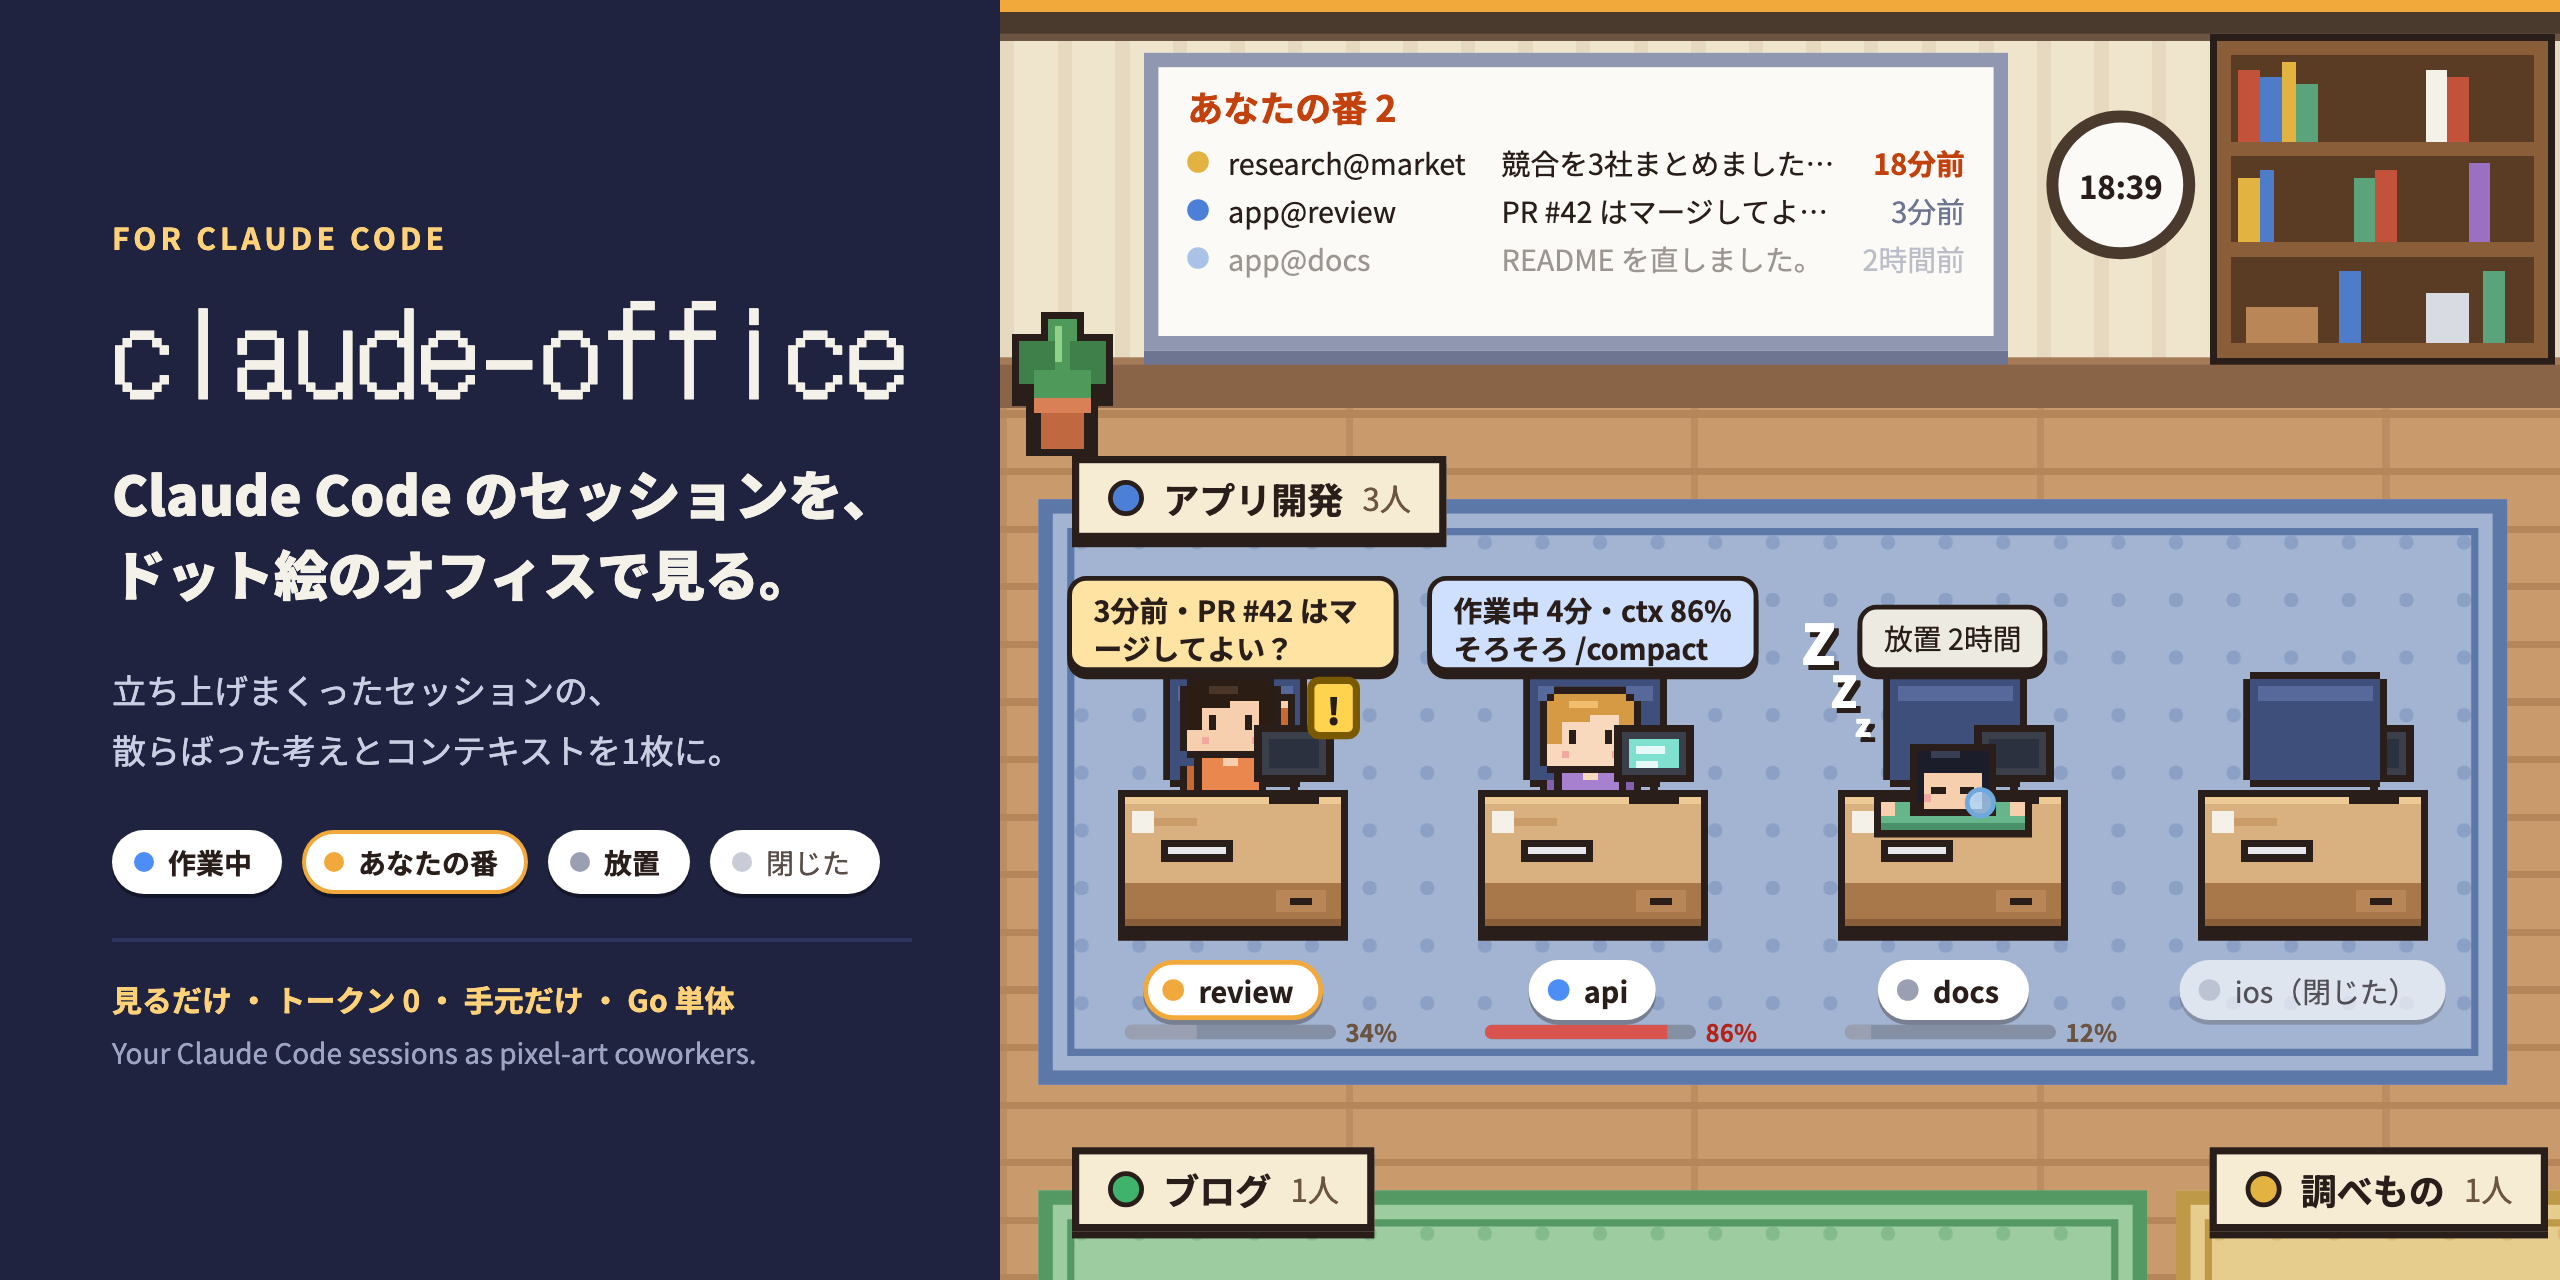
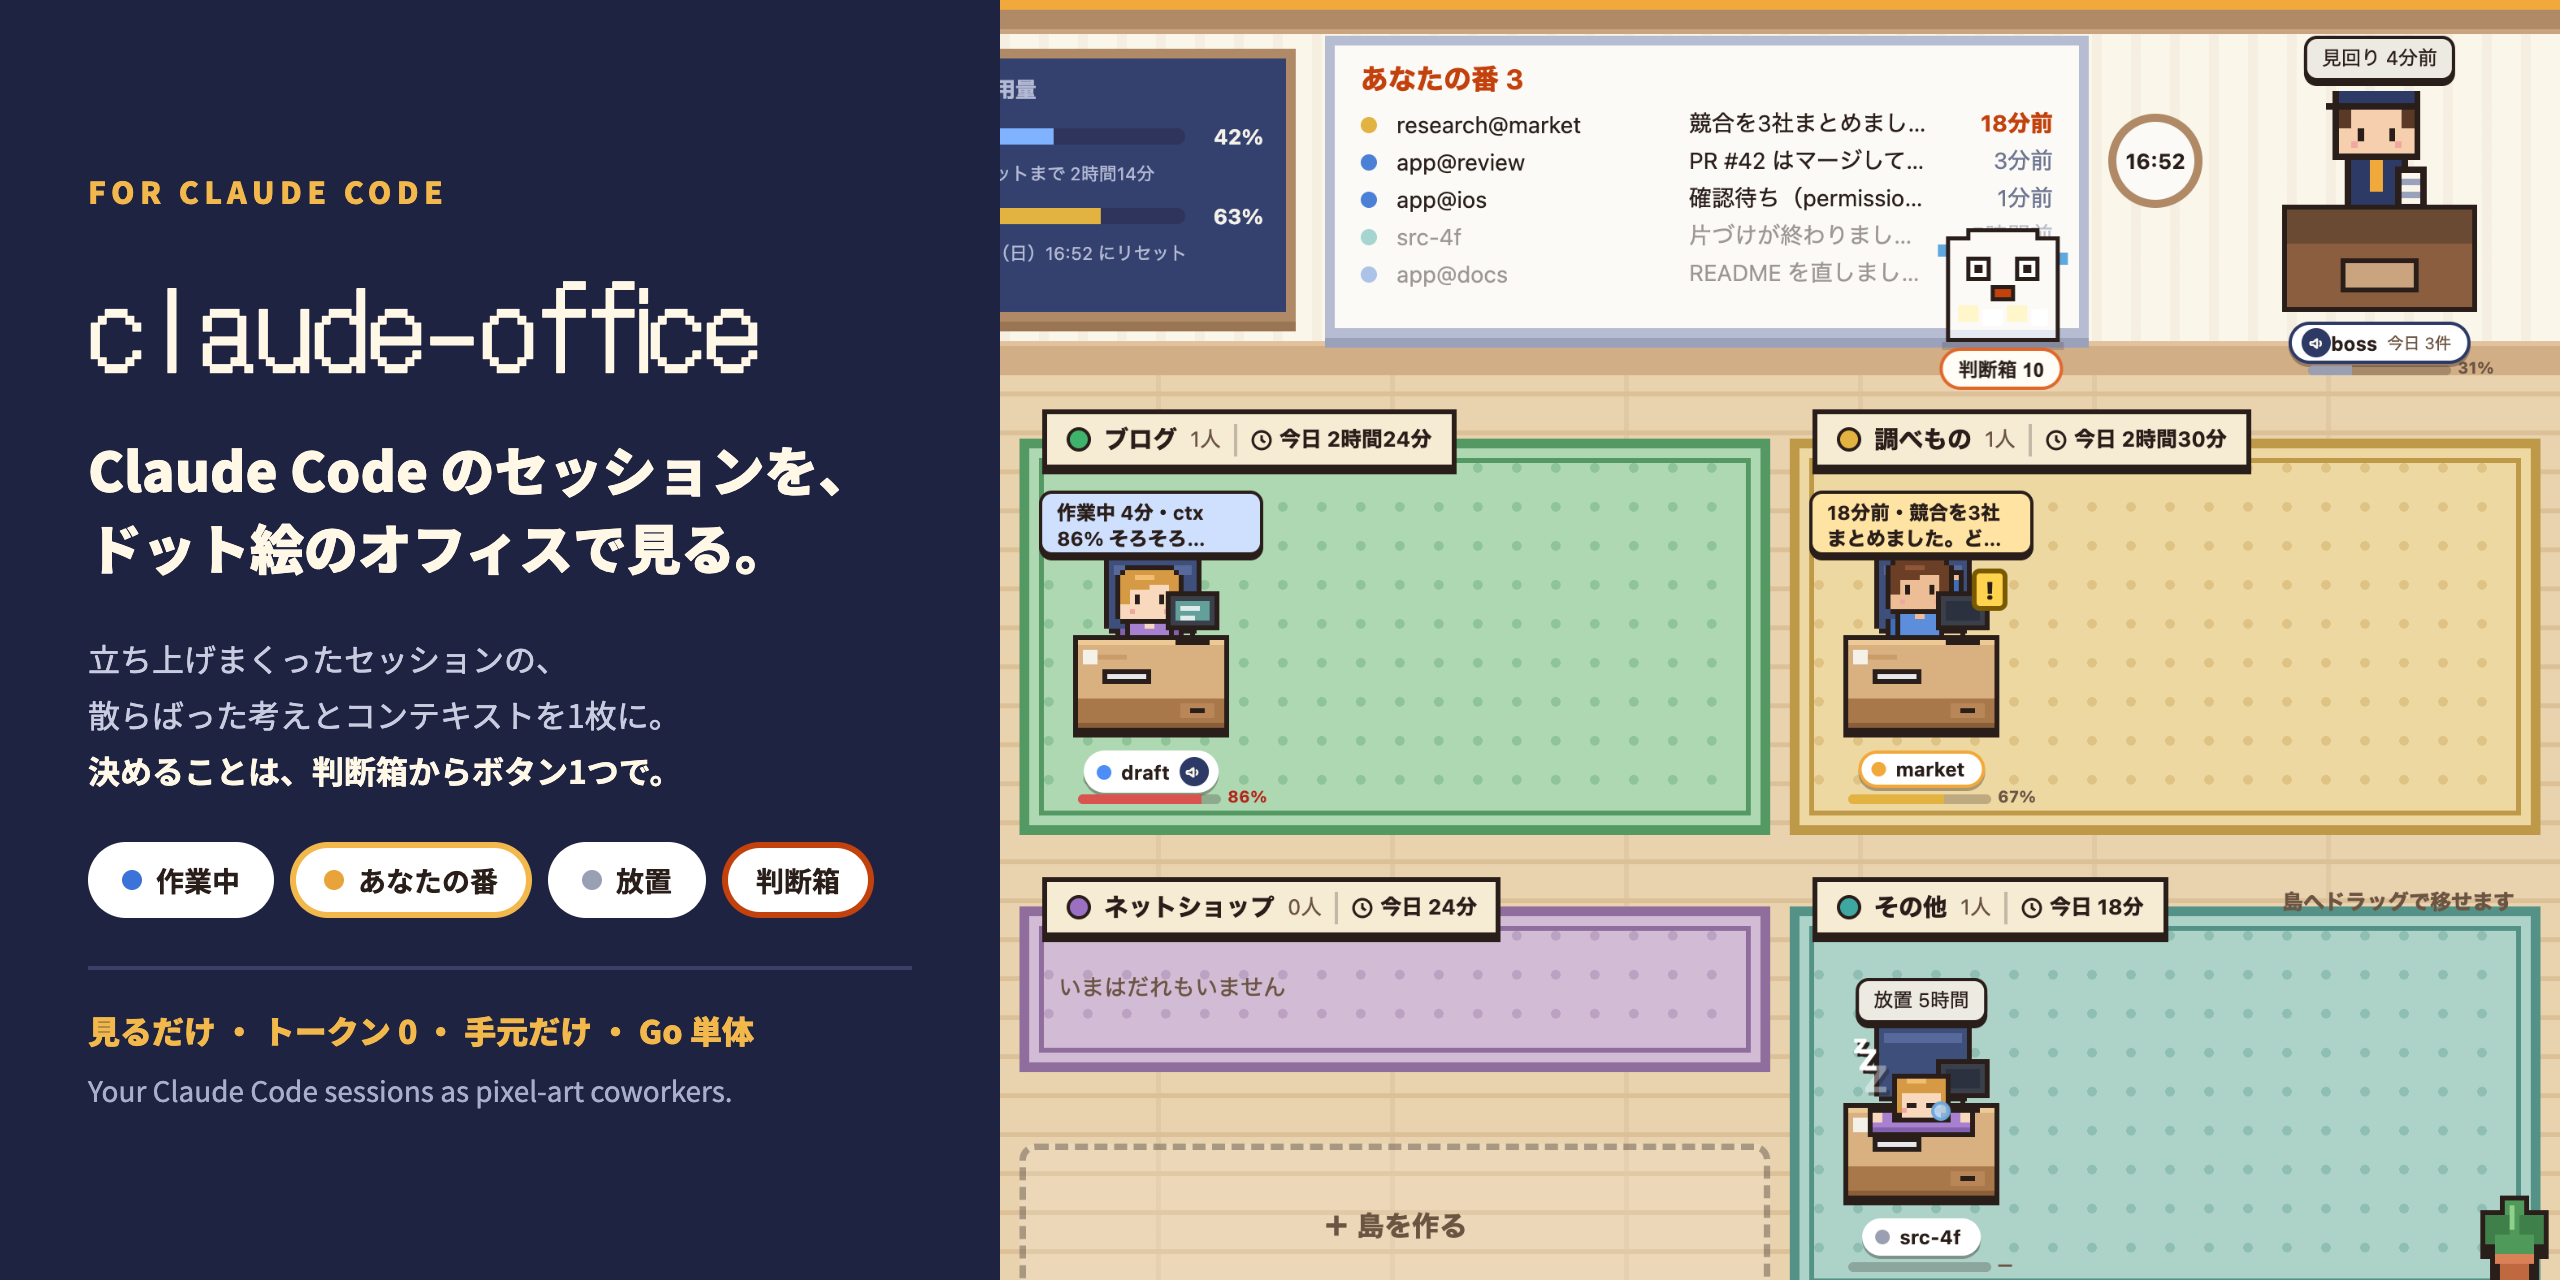
Show the decision box in the README images and keep its text short
- Retake docs/hero.png and docs/screenshot.png from the -demo data so Mochi
  and the decision box are in view (sample names only)
- Shorten the decision box row and section in README.md, README.ja.md and
  docs/features.md to "click Mochi, pick an answer, nothing to set up";
  the endpoint table for the boss stays as is
- Add one line about it to the "Why" list

diff --git a/README.md b/README.md
@@ -20,6 +20,7 @@ claude-office puts that scattered state into one office.
 
 - **See what each session is doing**: working, your turn, or idle, shown by how the character moves. Decide where to start without opening every tab.
 - **See context usage**: each session has a usage gauge, so you can `/compact` or start a fresh conversation before it gets heavy.
+- **Decide with one click**: a boss session leaves the questions it needs you to decide in the decision box. Click Mochi and pick an answer. Nothing to set up.
 - **Spend fewer tokens as a side effect**: you stop working in bloated contexts, notice and close idle sessions, and stop re-explaining the same thing in another session. The tool itself never calls Claude, so it uses zero tokens.
 
 ![Claude Code sessions running in terminal tabs, laid out in the claude-office office (sample data)](docs/why.en.png)
@@ -39,7 +40,7 @@ claude-office puts that scattered state into one office.
 | Drag to move | Drag a character onto an island to get the `/rename` command for it, ready to copy. It waits there as "移り待ち" (moving) until you run the command in that tab |
 | Whiteboard | Sessions on "your turn", longest-waiting first. Orange after 10 minutes |
 | Card | Click a character to see its working directory, the start of its last reply, and a button to copy its session name |
-| Decision box | Mochi, a rice-cake character standing below the wall, holds the questions the boss leaves. The more are waiting, the bigger and more restless it gets (pacing, running, then hopping); with none it is happiest. Click it to open the tray and decide one at a time with number keys, in order: urgent, important, then can-drop (Enter picks the recommended option; L later, A ask, M memo, arrow keys to move, Z undoes the last one). When the urgent ones are done you can stop there or move on; questions you put off with L come back with key 4, and clicking a level on the left goes back to it. For can-drop questions you stamp the ones to withdraw and press D (you can undo for 10 seconds). You can also write an instruction for a session. The boss passes answers and instructions on |
+| Decision box | Mochi, a rice-cake character standing below the wall, holds the questions the boss leaves for you (the more are waiting, the bigger and more restless it gets). Click Mochi, then click an option or press its number. Urgent ones come first, and the count goes down as you answer. Nothing to set up. The boss passes your answers on |
 | Context | A usage gauge under each name tag (yellow at 60%, red at 80% with a "time to /compact" hint) |
 | Usage | On the top wall, usage of the 5-hour and weekly limits and time until reset |
 | Today | A "今日の日報" (daily report) board on the wall: total time sessions spent working today, number of prompts, and time per island. Island signs show "今日 2時間10分", and the card shows that session's time with a timeline of when it worked. Click the board for the full day by island and the busiest sessions |
@@ -96,7 +97,7 @@ claude -n blog@draft
 
 **Boss**: you can set one session as the boss, a session that looks over the others and asks them to carry on. Start it with `claude -n boss`, or type `/rename boss` in a running session (dragging a character onto the boss desk by the wall shows that command too), and it stands next to the whiteboard. Waiting between rounds is the boss's job, so an idle boss is never listed under "あなたの番" (your turn) and never falls asleep; only a permission prompt is shown. When the boss sends another session an instruction with Claude Code's cross-session messages, that session's name tag shows a megaphone until it finishes replying, and its card shows "ボスから" (from the boss) with the first line of the instruction. A paper plane flies from the boss desk at the moment it is sent. The boss's card lists the sessions it asked today. The boss session sends the instructions itself; this screen never sends anything.
 
-**Decision box**: the boss leaves "things for you to decide" here and you answer on this screen (`~/.claude/office/decisions.json`). Click Mochi below the wall (its name tag shows how many are waiting) to open the tray. On the left it shows the order to answer in (urgent, important, can-drop, each with a count and an estimated time), and it starts at the first urgent question. Click an option or press its number (Enter for the recommended one) to answer and move to the next one. When the urgent ones are done you can stop, or go on to the important or can-drop ones. For can-drop questions you answer the ones with a recommendation one by one, then stamp the rest you want to withdraw and press D (Enter never withdraws; an undo button shows for 10 seconds). Questions marked "あとで" are not counted as done: the left side shows them as "あとで N", and the end screen has a button to answer them one by one. Click a level on the left to go back to its questions. You can add a memo, choose "あとで" (later) or "相談したい" (ask), or write an instruction for a session. This screen sends nothing to any session: the boss reads the answers and instructions on its next round, passes them on, and marks them. The boss uses these endpoints with curl (a POST without an Origin header, such as from curl, is accepted; a POST from another site's page is refused).
+**Decision box**: the boss leaves "things for you to decide" here and you answer on this screen (`~/.claude/office/decisions.json`). Click Mochi below the wall (its name tag shows how many are waiting) to open the tray at the first urgent question. Click an option or press its number (Enter for the recommended one) to answer and move to the next. Once the urgent ones are done you can stop there. You can also add a memo (M), answer later (L), ask to talk it over (A), or undo the last one (Z). This screen sends nothing to any session: the boss reads your answers on its next round and passes them on. The boss uses these endpoints with curl (a POST without an Origin header, such as from curl, is accepted; a POST from another site's page is refused).
 
 | Endpoint | What it does |
 |---|---|
